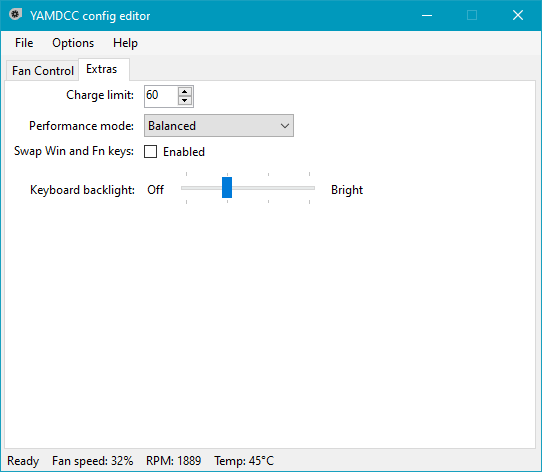
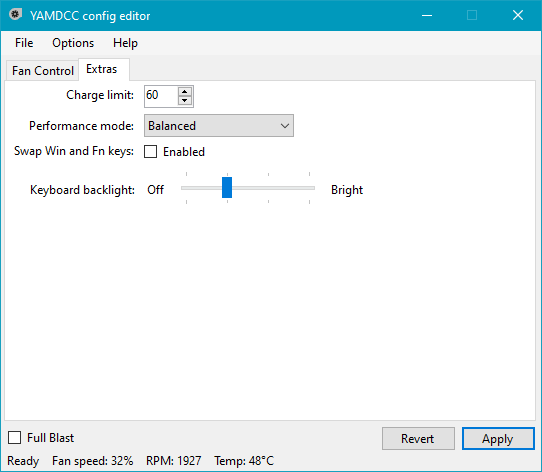
Small UI update
- Move the Apply, Revert, and Full Blast buttons to be visible on all tabs

- Update the Exit tool strip button tooltip

- Update README screenshots to match UI updates

diff --git a/YAMDCC.GUI/MainWindow.Designer.cs b/YAMDCC.GUI/MainWindow.Designer.cs
@@ -53,12 +53,12 @@ namespace YAMDCC.GUI
             System.Windows.Forms.TabControl tcMain;
             System.Windows.Forms.TabPage tabFanControl;
             System.Windows.Forms.FlowLayoutPanel flwFanSelect;
-            System.Windows.Forms.TableLayoutPanel tblFCBottom;
             System.Windows.Forms.TabPage tabOptions;
             System.Windows.Forms.TableLayoutPanel tblExtra;
             System.Windows.Forms.FlowLayoutPanel flwKeyLight;
             System.Windows.Forms.Label lblKeyLightLow;
             System.Windows.Forms.Label lblKeyLightHigh;
+            System.Windows.Forms.TableLayoutPanel tblFCBottom;
             System.Windows.Forms.FlowLayoutPanel flwStats;
             this.tsiFile = new System.Windows.Forms.ToolStripMenuItem();
             this.tsiLoadConf = new System.Windows.Forms.ToolStripMenuItem();
@@ -90,9 +90,6 @@ namespace YAMDCC.GUI
             this.cboProfSel = new System.Windows.Forms.ComboBox();
             this.btnProfAdd = new System.Windows.Forms.Button();
             this.btnProfDel = new System.Windows.Forms.Button();
-            this.chkFullBlast = new System.Windows.Forms.CheckBox();
-            this.btnApply = new System.Windows.Forms.Button();
-            this.btnRevert = new System.Windows.Forms.Button();
             this.lblChgLim = new System.Windows.Forms.Label();
             this.numChgLim = new System.Windows.Forms.NumericUpDown();
             this.lblPerfMode = new System.Windows.Forms.Label();
@@ -101,6 +98,9 @@ namespace YAMDCC.GUI
             this.chkWinFnSwap = new System.Windows.Forms.CheckBox();
             this.lblKeyLight = new System.Windows.Forms.Label();
             this.tbKeyLight = new System.Windows.Forms.TrackBar();
+            this.chkFullBlast = new System.Windows.Forms.CheckBox();
+            this.btnApply = new System.Windows.Forms.Button();
+            this.btnRevert = new System.Windows.Forms.Button();
             this.lblStatus = new System.Windows.Forms.Label();
             this.lblFanSpd = new System.Windows.Forms.Label();
             this.lblFanRPM = new System.Windows.Forms.Label();
@@ -115,12 +115,12 @@ namespace YAMDCC.GUI
             tcMain = new System.Windows.Forms.TabControl();
             tabFanControl = new System.Windows.Forms.TabPage();
             flwFanSelect = new System.Windows.Forms.FlowLayoutPanel();
-            tblFCBottom = new System.Windows.Forms.TableLayoutPanel();
             tabOptions = new System.Windows.Forms.TabPage();
             tblExtra = new System.Windows.Forms.TableLayoutPanel();
             flwKeyLight = new System.Windows.Forms.FlowLayoutPanel();
             lblKeyLightLow = new System.Windows.Forms.Label();
             lblKeyLightHigh = new System.Windows.Forms.Label();
+            tblFCBottom = new System.Windows.Forms.TableLayoutPanel();
             flwStats = new System.Windows.Forms.FlowLayoutPanel();
             menuStrip.SuspendLayout();
             tcMain.SuspendLayout();
@@ -128,12 +128,12 @@ namespace YAMDCC.GUI
             this.tblFanControl.SuspendLayout();
             this.tblCurve.SuspendLayout();
             flwFanSelect.SuspendLayout();
-            tblFCBottom.SuspendLayout();
             tabOptions.SuspendLayout();
             tblExtra.SuspendLayout();
             ((System.ComponentModel.ISupportInitialize)(this.numChgLim)).BeginInit();
             flwKeyLight.SuspendLayout();
             ((System.ComponentModel.ISupportInitialize)(this.tbKeyLight)).BeginInit();
+            tblFCBottom.SuspendLayout();
             flwStats.SuspendLayout();
             this.tblMain.SuspendLayout();
             this.SuspendLayout();
@@ -338,9 +338,10 @@ namespace YAMDCC.GUI
             tcMain.Controls.Add(tabOptions);
             tcMain.Dock = System.Windows.Forms.DockStyle.Fill;
             tcMain.Location = new System.Drawing.Point(3, 3);
+            tcMain.Margin = new System.Windows.Forms.Padding(3, 3, 3, 2);
             tcMain.Name = "tcMain";
             tcMain.SelectedIndex = 0;
-            tcMain.Size = new System.Drawing.Size(534, 392);
+            tcMain.Size = new System.Drawing.Size(534, 364);
             tcMain.TabIndex = 6;
             // 
             // tabFanControl
@@ -349,7 +350,7 @@ namespace YAMDCC.GUI
             tabFanControl.Controls.Add(this.tblFanControl);
             tabFanControl.Location = new System.Drawing.Point(4, 24);
             tabFanControl.Name = "tabFanControl";
-            tabFanControl.Size = new System.Drawing.Size(526, 364);
+            tabFanControl.Size = new System.Drawing.Size(526, 336);
             tabFanControl.TabIndex = 0;
             tabFanControl.Text = "Fan Control";
             // 
@@ -359,7 +360,6 @@ namespace YAMDCC.GUI
             this.tblFanControl.ColumnStyles.Add(new System.Windows.Forms.ColumnStyle(System.Windows.Forms.SizeType.Percent, 100F));
             this.tblFanControl.Controls.Add(this.tblCurve, 0, 1);
             this.tblFanControl.Controls.Add(flwFanSelect, 0, 0);
-            this.tblFanControl.Controls.Add(tblFCBottom, 0, 2);
             this.tblFanControl.Dock = System.Windows.Forms.DockStyle.Fill;
             this.tblFanControl.Location = new System.Drawing.Point(0, 0);
             this.tblFanControl.Margin = new System.Windows.Forms.Padding(0);
@@ -368,7 +368,7 @@ namespace YAMDCC.GUI
             this.tblFanControl.RowStyles.Add(new System.Windows.Forms.RowStyle());
             this.tblFanControl.RowStyles.Add(new System.Windows.Forms.RowStyle(System.Windows.Forms.SizeType.Percent, 100F));
             this.tblFanControl.RowStyles.Add(new System.Windows.Forms.RowStyle());
-            this.tblFanControl.Size = new System.Drawing.Size(526, 364);
+            this.tblFanControl.Size = new System.Drawing.Size(526, 336);
             this.tblFanControl.TabIndex = 0;
             // 
             // tblCurve
@@ -396,7 +396,7 @@ namespace YAMDCC.GUI
             this.tblCurve.RowStyles.Add(new System.Windows.Forms.RowStyle(System.Windows.Forms.SizeType.Percent, 100F));
             this.tblCurve.RowStyles.Add(new System.Windows.Forms.RowStyle());
             this.tblCurve.RowStyles.Add(new System.Windows.Forms.RowStyle());
-            this.tblCurve.Size = new System.Drawing.Size(526, 305);
+            this.tblCurve.Size = new System.Drawing.Size(526, 307);
             this.tblCurve.TabIndex = 6;
             // 
             // lblSpeed
@@ -413,7 +413,7 @@ namespace YAMDCC.GUI
             // 
             this.lblUpT.Anchor = System.Windows.Forms.AnchorStyles.Right;
             this.lblUpT.AutoSize = true;
-            this.lblUpT.Location = new System.Drawing.Point(19, 275);
+            this.lblUpT.Location = new System.Drawing.Point(19, 277);
             this.lblUpT.Name = "lblUpT";
             this.lblUpT.Size = new System.Drawing.Size(46, 15);
             this.lblUpT.TabIndex = 1;
@@ -423,7 +423,7 @@ namespace YAMDCC.GUI
             // 
             this.lblDownT.Anchor = System.Windows.Forms.AnchorStyles.Right;
             this.lblDownT.AutoSize = true;
-            this.lblDownT.Location = new System.Drawing.Point(3, 290);
+            this.lblDownT.Location = new System.Drawing.Point(3, 292);
             this.lblDownT.Name = "lblDownT";
             this.lblDownT.Size = new System.Drawing.Size(62, 15);
             this.lblDownT.TabIndex = 2;
@@ -507,67 +507,13 @@ namespace YAMDCC.GUI
             this.btnProfDel.UseVisualStyleBackColor = true;
             this.btnProfDel.Click += new System.EventHandler(this.btnProfDel_Click);
             // 
-            // tblFCBottom
-            // 
-            tblFCBottom.AutoSize = true;
-            tblFCBottom.ColumnCount = 3;
-            tblFCBottom.ColumnStyles.Add(new System.Windows.Forms.ColumnStyle(System.Windows.Forms.SizeType.Percent, 100F));
-            tblFCBottom.ColumnStyles.Add(new System.Windows.Forms.ColumnStyle());
-            tblFCBottom.ColumnStyles.Add(new System.Windows.Forms.ColumnStyle());
-            tblFCBottom.Controls.Add(this.chkFullBlast, 0, 0);
-            tblFCBottom.Controls.Add(this.btnApply, 2, 0);
-            tblFCBottom.Controls.Add(this.btnRevert, 1, 0);
-            tblFCBottom.Dock = System.Windows.Forms.DockStyle.Fill;
-            tblFCBottom.Location = new System.Drawing.Point(0, 334);
-            tblFCBottom.Margin = new System.Windows.Forms.Padding(0);
-            tblFCBottom.Name = "tblFCBottom";
-            tblFCBottom.RowCount = 1;
-            tblFCBottom.RowStyles.Add(new System.Windows.Forms.RowStyle(System.Windows.Forms.SizeType.Percent, 100F));
-            tblFCBottom.Size = new System.Drawing.Size(526, 30);
-            tblFCBottom.TabIndex = 4;
-            // 
-            // chkFullBlast
-            // 
-            this.chkFullBlast.AutoSize = true;
-            this.chkFullBlast.Location = new System.Drawing.Point(6, 6);
-            this.chkFullBlast.Margin = new System.Windows.Forms.Padding(6, 6, 6, 5);
-            this.chkFullBlast.Name = "chkFullBlast";
-            this.chkFullBlast.Size = new System.Drawing.Size(73, 19);
-            this.chkFullBlast.TabIndex = 1;
-            this.chkFullBlast.Text = "Full Blast";
-            this.chkFullBlast.UseVisualStyleBackColor = true;
-            this.chkFullBlast.CheckedChanged += new System.EventHandler(this.chkFullBlast_Toggled);
-            // 
-            // btnApply
-            // 
-            this.btnApply.Location = new System.Drawing.Point(448, 3);
-            this.btnApply.Margin = new System.Windows.Forms.Padding(3, 3, 3, 2);
-            this.btnApply.Name = "btnApply";
-            this.btnApply.Size = new System.Drawing.Size(75, 25);
-            this.btnApply.TabIndex = 4;
-            this.btnApply.Text = "Apply";
-            this.btnApply.UseVisualStyleBackColor = true;
-            this.btnApply.Click += new System.EventHandler(this.btnApply_Click);
-            // 
-            // btnRevert
-            // 
-            this.btnRevert.DialogResult = System.Windows.Forms.DialogResult.Cancel;
-            this.btnRevert.Location = new System.Drawing.Point(367, 3);
-            this.btnRevert.Margin = new System.Windows.Forms.Padding(3, 3, 3, 2);
-            this.btnRevert.Name = "btnRevert";
-            this.btnRevert.Size = new System.Drawing.Size(75, 25);
-            this.btnRevert.TabIndex = 5;
-            this.btnRevert.Text = "Revert";
-            this.btnRevert.UseVisualStyleBackColor = true;
-            this.btnRevert.Click += new System.EventHandler(this.btnRevert_Click);
-            // 
             // tabOptions
             // 
             tabOptions.BackColor = System.Drawing.Color.White;
             tabOptions.Controls.Add(tblExtra);
             tabOptions.Location = new System.Drawing.Point(4, 24);
             tabOptions.Name = "tabOptions";
-            tabOptions.Size = new System.Drawing.Size(526, 366);
+            tabOptions.Size = new System.Drawing.Size(526, 392);
             tabOptions.TabIndex = 1;
             tabOptions.Text = "Extras";
             // 
@@ -593,7 +539,7 @@ namespace YAMDCC.GUI
             tblExtra.RowStyles.Add(new System.Windows.Forms.RowStyle());
             tblExtra.RowStyles.Add(new System.Windows.Forms.RowStyle());
             tblExtra.RowStyles.Add(new System.Windows.Forms.RowStyle(System.Windows.Forms.SizeType.Percent, 100F));
-            tblExtra.Size = new System.Drawing.Size(526, 366);
+            tblExtra.Size = new System.Drawing.Size(526, 392);
             tblExtra.TabIndex = 4;
             // 
             // lblChgLim
@@ -714,6 +660,60 @@ namespace YAMDCC.GUI
             lblKeyLightHigh.TabIndex = 11;
             lblKeyLightHigh.Text = "Bright";
             // 
+            // tblFCBottom
+            // 
+            tblFCBottom.AutoSize = true;
+            tblFCBottom.ColumnCount = 3;
+            tblFCBottom.ColumnStyles.Add(new System.Windows.Forms.ColumnStyle(System.Windows.Forms.SizeType.Percent, 100F));
+            tblFCBottom.ColumnStyles.Add(new System.Windows.Forms.ColumnStyle());
+            tblFCBottom.ColumnStyles.Add(new System.Windows.Forms.ColumnStyle());
+            tblFCBottom.Controls.Add(this.chkFullBlast, 0, 0);
+            tblFCBottom.Controls.Add(this.btnApply, 2, 0);
+            tblFCBottom.Controls.Add(this.btnRevert, 1, 0);
+            tblFCBottom.Dock = System.Windows.Forms.DockStyle.Fill;
+            tblFCBottom.Location = new System.Drawing.Point(2, 369);
+            tblFCBottom.Margin = new System.Windows.Forms.Padding(2, 0, 2, 0);
+            tblFCBottom.Name = "tblFCBottom";
+            tblFCBottom.RowCount = 1;
+            tblFCBottom.RowStyles.Add(new System.Windows.Forms.RowStyle(System.Windows.Forms.SizeType.Percent, 100F));
+            tblFCBottom.Size = new System.Drawing.Size(536, 29);
+            tblFCBottom.TabIndex = 4;
+            // 
+            // chkFullBlast
+            // 
+            this.chkFullBlast.AutoSize = true;
+            this.chkFullBlast.Location = new System.Drawing.Point(5, 5);
+            this.chkFullBlast.Margin = new System.Windows.Forms.Padding(5, 5, 6, 5);
+            this.chkFullBlast.Name = "chkFullBlast";
+            this.chkFullBlast.Size = new System.Drawing.Size(73, 19);
+            this.chkFullBlast.TabIndex = 1;
+            this.chkFullBlast.Text = "Full Blast";
+            this.chkFullBlast.UseVisualStyleBackColor = true;
+            this.chkFullBlast.CheckedChanged += new System.EventHandler(this.chkFullBlast_Toggled);
+            // 
+            // btnApply
+            // 
+            this.btnApply.Location = new System.Drawing.Point(458, 2);
+            this.btnApply.Margin = new System.Windows.Forms.Padding(2, 2, 3, 2);
+            this.btnApply.Name = "btnApply";
+            this.btnApply.Size = new System.Drawing.Size(75, 25);
+            this.btnApply.TabIndex = 4;
+            this.btnApply.Text = "Apply";
+            this.btnApply.UseVisualStyleBackColor = true;
+            this.btnApply.Click += new System.EventHandler(this.btnApply_Click);
+            // 
+            // btnRevert
+            // 
+            this.btnRevert.DialogResult = System.Windows.Forms.DialogResult.Cancel;
+            this.btnRevert.Location = new System.Drawing.Point(378, 2);
+            this.btnRevert.Margin = new System.Windows.Forms.Padding(2, 2, 3, 2);
+            this.btnRevert.Name = "btnRevert";
+            this.btnRevert.Size = new System.Drawing.Size(75, 25);
+            this.btnRevert.TabIndex = 5;
+            this.btnRevert.Text = "Revert";
+            this.btnRevert.UseVisualStyleBackColor = true;
+            this.btnRevert.Click += new System.EventHandler(this.btnRevert_Click);
+            // 
             // flwStats
             // 
             flwStats.AutoSize = true;
@@ -772,13 +772,15 @@ namespace YAMDCC.GUI
             this.tblMain.ColumnCount = 1;
             this.tblMain.ColumnStyles.Add(new System.Windows.Forms.ColumnStyle(System.Windows.Forms.SizeType.Percent, 100F));
             this.tblMain.Controls.Add(tcMain, 0, 0);
-            this.tblMain.Controls.Add(flwStats, 0, 1);
+            this.tblMain.Controls.Add(flwStats, 0, 2);
+            this.tblMain.Controls.Add(tblFCBottom, 0, 1);
             this.tblMain.Dock = System.Windows.Forms.DockStyle.Fill;
             this.tblMain.Location = new System.Drawing.Point(0, 24);
             this.tblMain.Margin = new System.Windows.Forms.Padding(0);
             this.tblMain.Name = "tblMain";
-            this.tblMain.RowCount = 2;
+            this.tblMain.RowCount = 3;
             this.tblMain.RowStyles.Add(new System.Windows.Forms.RowStyle(System.Windows.Forms.SizeType.Percent, 100F));
+            this.tblMain.RowStyles.Add(new System.Windows.Forms.RowStyle());
             this.tblMain.RowStyles.Add(new System.Windows.Forms.RowStyle());
             this.tblMain.Size = new System.Drawing.Size(540, 416);
             this.tblMain.TabIndex = 1;
@@ -811,8 +813,6 @@ namespace YAMDCC.GUI
             this.tblCurve.PerformLayout();
             flwFanSelect.ResumeLayout(false);
             flwFanSelect.PerformLayout();
-            tblFCBottom.ResumeLayout(false);
-            tblFCBottom.PerformLayout();
             tabOptions.ResumeLayout(false);
             tblExtra.ResumeLayout(false);
             tblExtra.PerformLayout();
@@ -820,6 +820,8 @@ namespace YAMDCC.GUI
             flwKeyLight.ResumeLayout(false);
             flwKeyLight.PerformLayout();
             ((System.ComponentModel.ISupportInitialize)(this.tbKeyLight)).EndInit();
+            tblFCBottom.ResumeLayout(false);
+            tblFCBottom.PerformLayout();
             flwStats.ResumeLayout(false);
             flwStats.PerformLayout();
             this.tblMain.ResumeLayout(false);

diff --git a/YAMDCC.GUI/MainWindow.cs b/YAMDCC.GUI/MainWindow.cs
@@ -67,7 +67,7 @@ namespace YAMDCC.GUI
             tsiSaveConf.ToolTipText = Strings.GetString("ttSaveConf");
             tsiApply.ToolTipText = Strings.GetString("ttApply");
             tsiRevert.ToolTipText = Strings.GetString("ttRevert");
-            tsiExit.ToolTipText = Strings.GetString("ttSelfExplan");
+            tsiExit.ToolTipText = Strings.GetString("ttExit");
             tsiProfAdd.ToolTipText = Strings.GetString("ttProfAdd");
             tsiProfRename.ToolTipText = Strings.GetString("ttProfRename");
             tsiProfChangeDesc.ToolTipText = Strings.GetString("ttProfChangeDesc");
